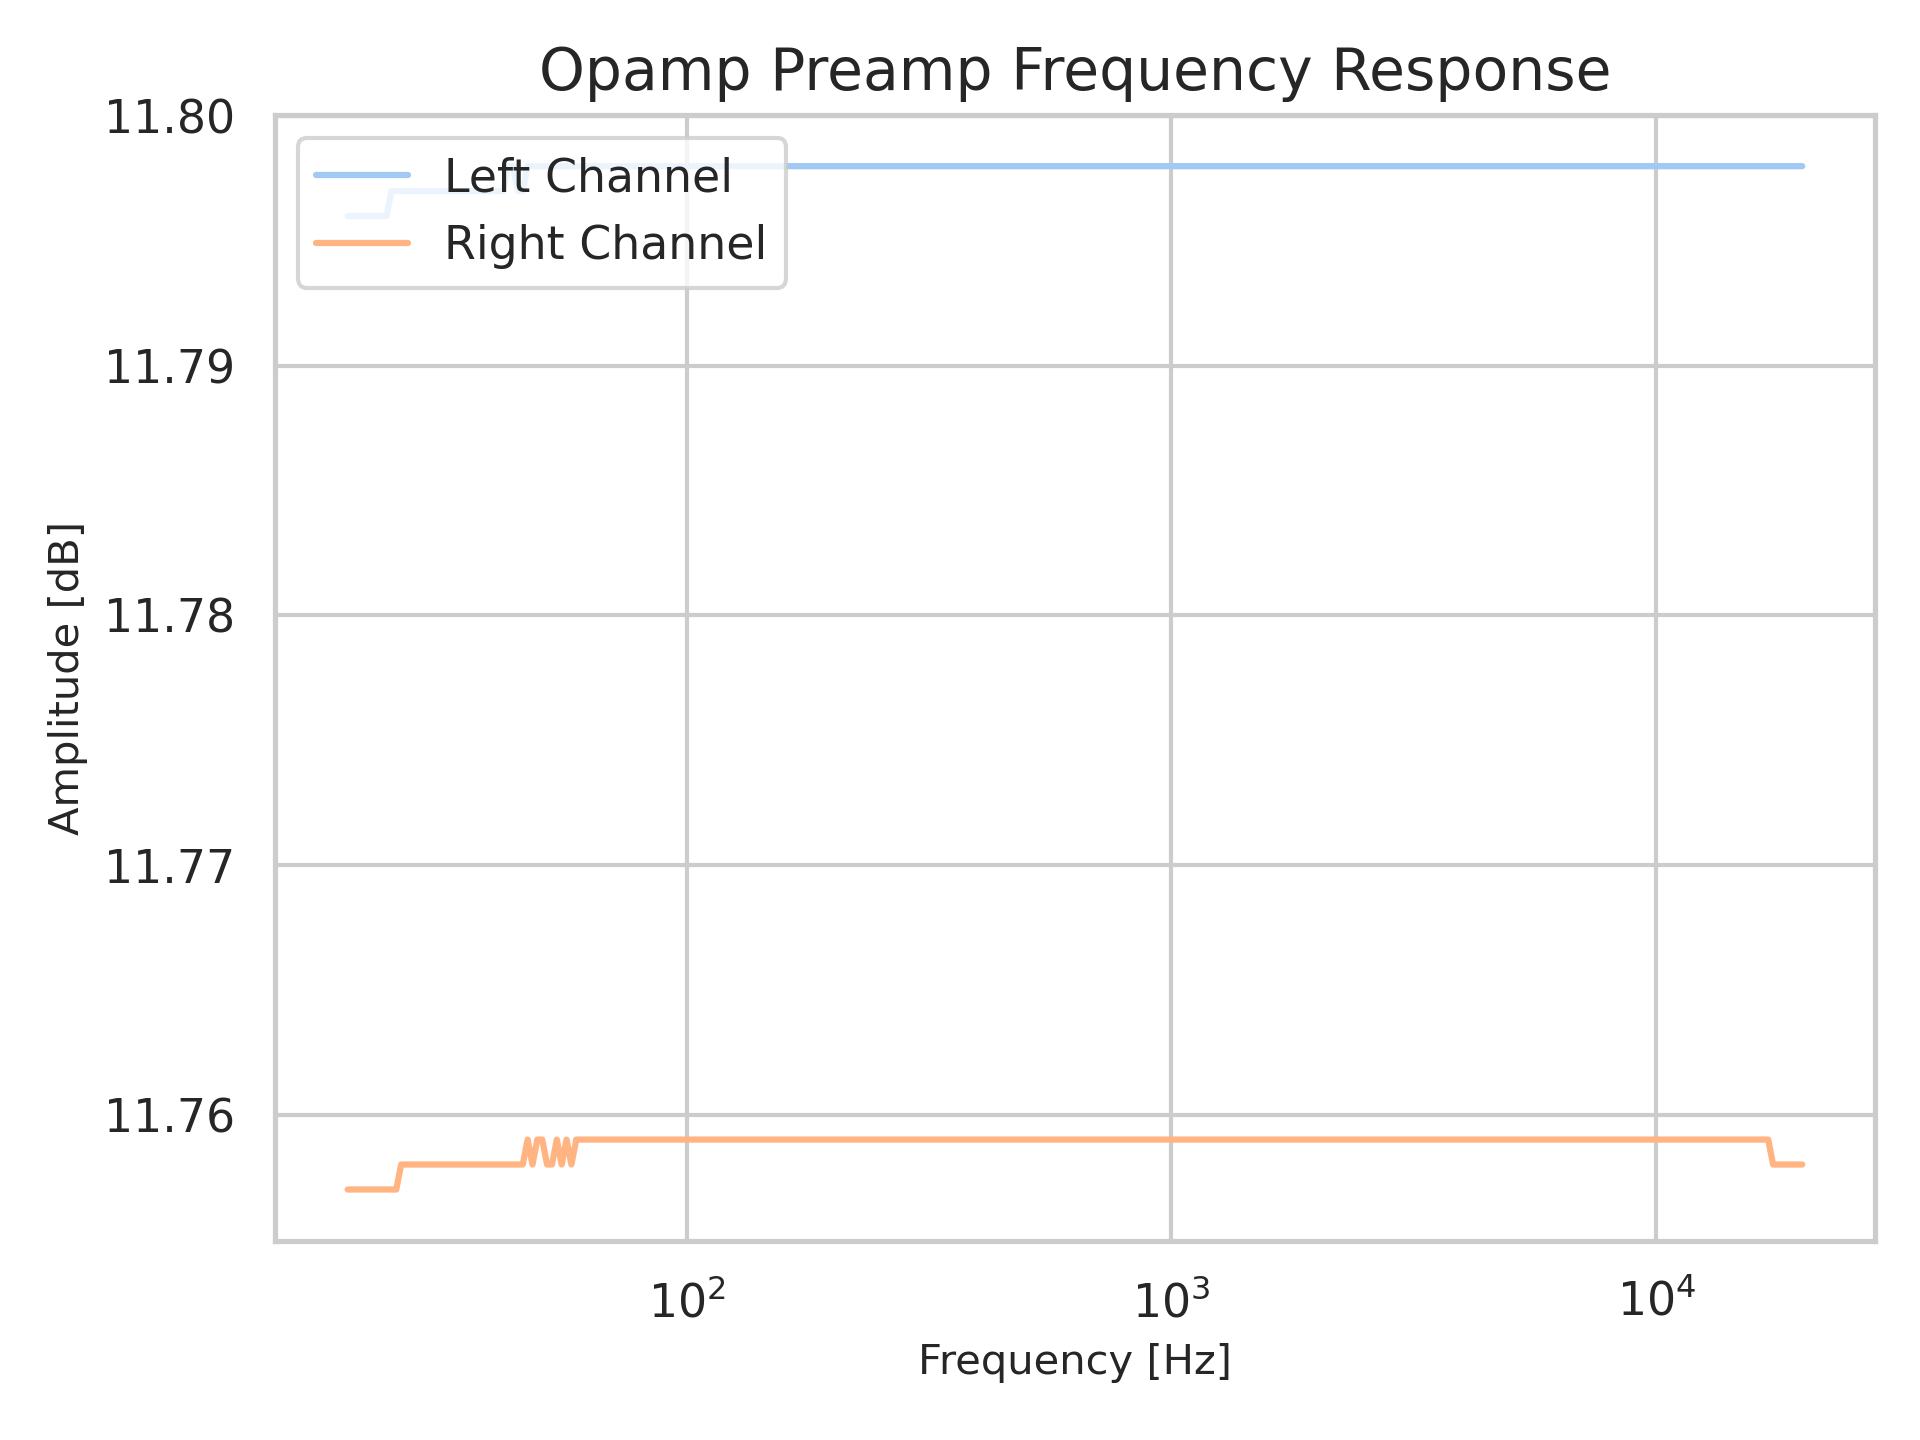
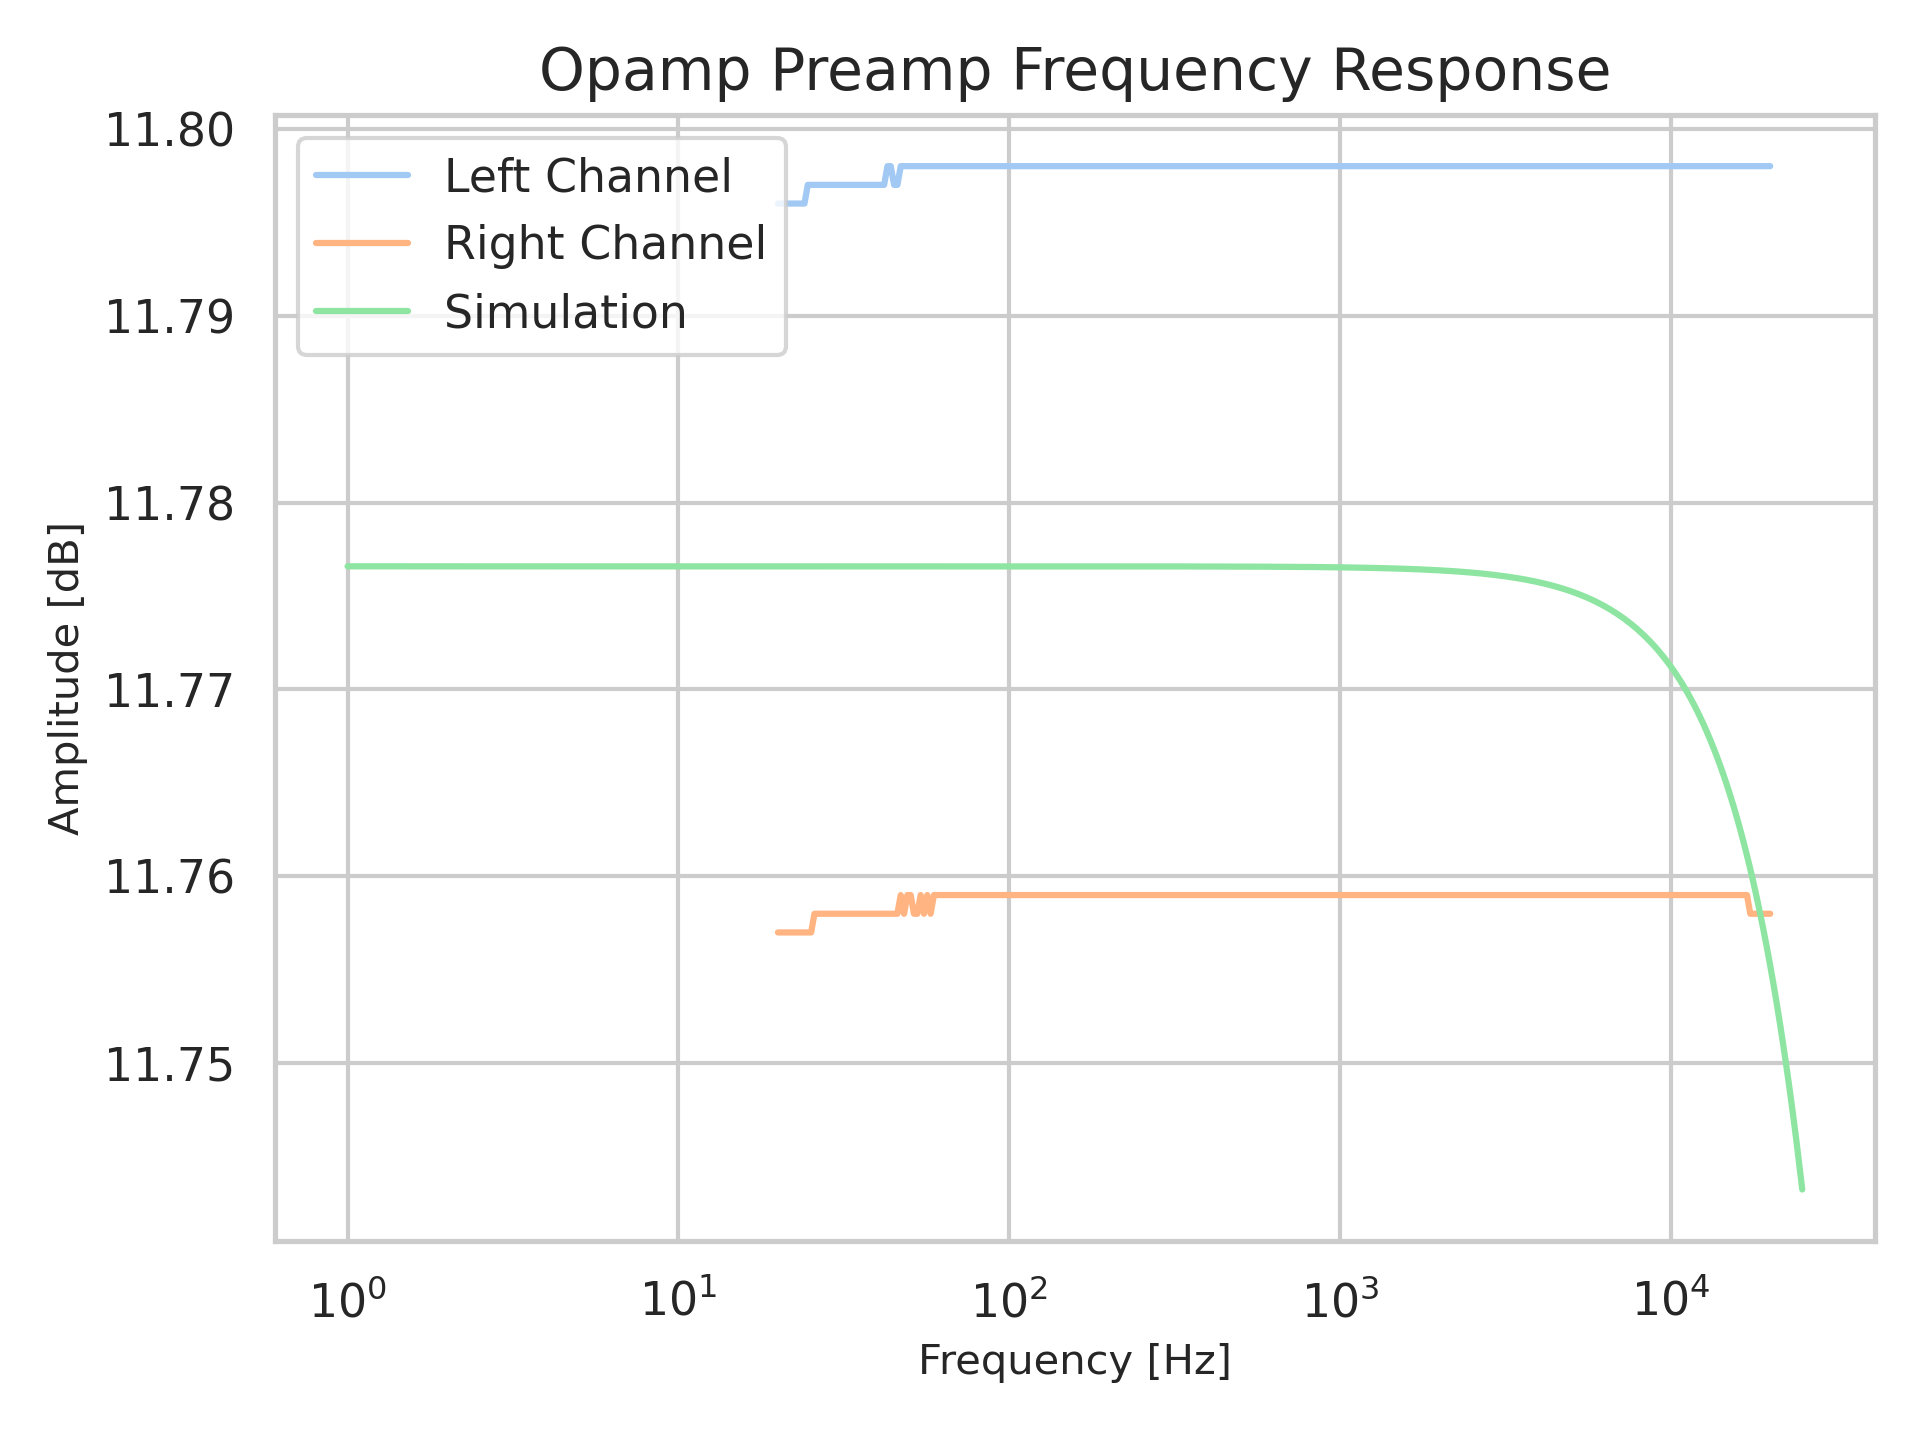
add simulation data to plots

diff --git a/integration_test/audio_analyser_plot.py b/integration_test/audio_analyser_plot.py
@@ -1,3 +1,4 @@
+from math import log10
 import pandas as pd
 import matplotlib.pyplot as plt
 import seaborn as sns
@@ -53,9 +54,8 @@ def read_and_filter_tsv_file(filename):
 
 def read_ltspice_simdata(filename):
     df = pd.read_csv(filename, sep='\t', header=0)
-    complex_in = df["V(in)"].apply(lambda x: complex(*map(float, x.split(','))))
     complex_out = df["V(out)"].apply(lambda x: complex(*map(float, x.split(','))))
-    return pd.DataFrame({"f": df["Freq."], "in": complex_in, "out": complex_out, "outampl": complex_out.apply(lambda x: abs(x))})
+    return pd.DataFrame({"f": df["Freq."], "out": complex_out, "outampl": complex_out.apply(lambda x: 20*log10(abs(x)))})
 
 df_L = read_and_filter_tsv_file(filename_L)
 df_R = read_and_filter_tsv_file(filename_R)
